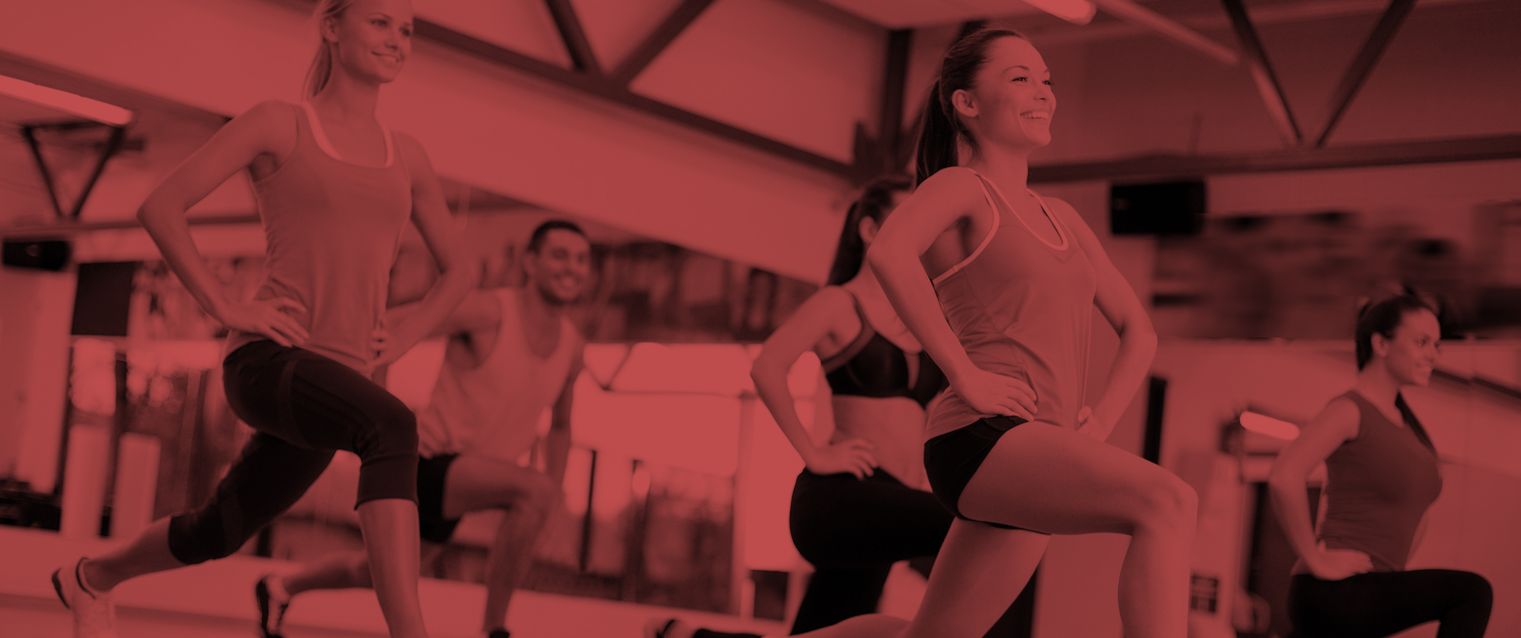
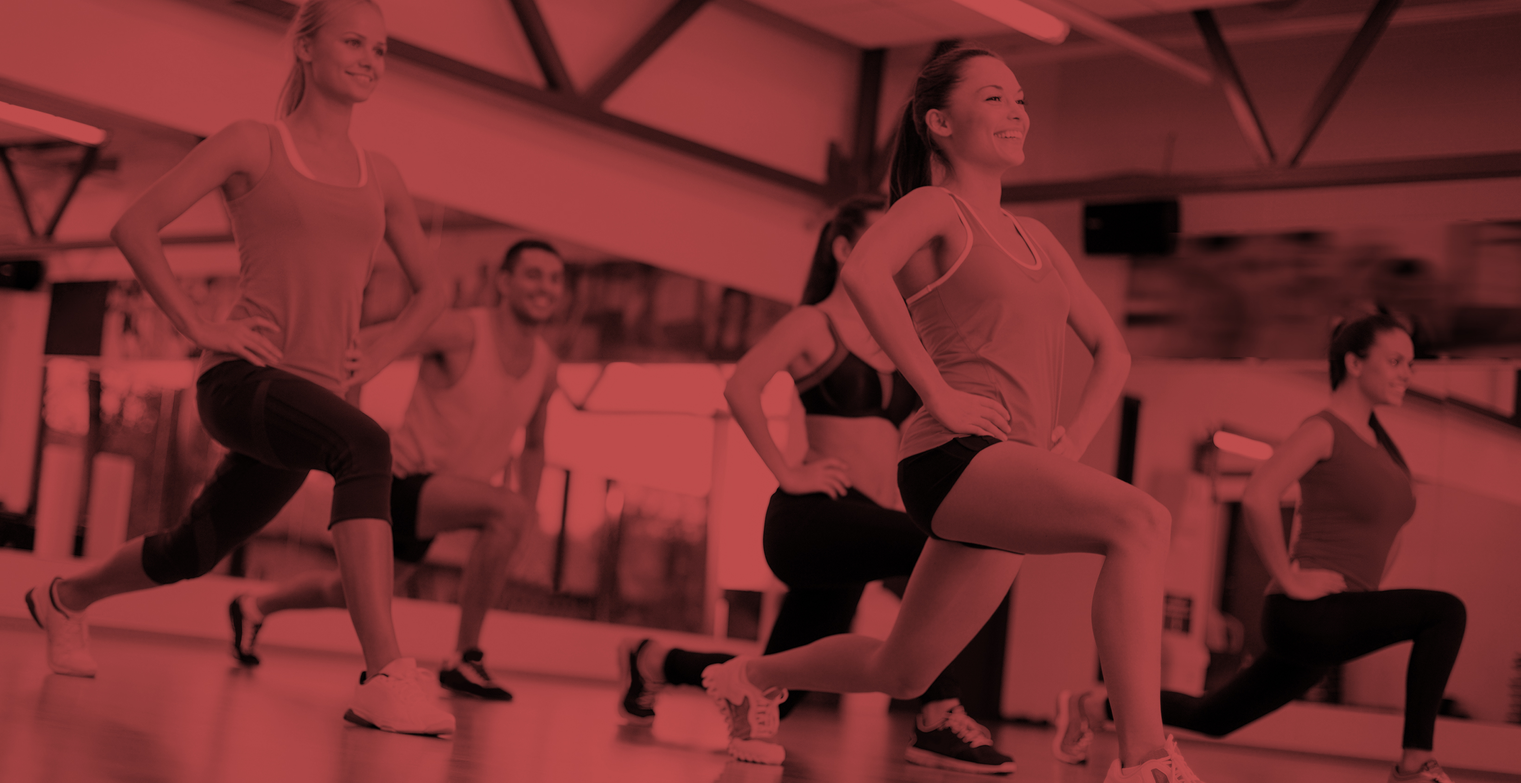
class details

diff --git a/public/CSS/classdetails.css b/public/CSS/classdetails.css
@@ -1,3 +1,10 @@
+
+.main-img {
+    width: 100%;
+    height: auto;
+    object-fit: cover; 
+}
+
 .class-name-box {
     background: rgba(255, 255, 255, 0.5); 
     color: #000000; 
@@ -28,6 +35,7 @@
     padding: 20px;
     width: 300px;
     box-shadow: 0 0 10px rgba(0, 0, 0, 0.1);
+    /* transform: translateY(-500px); */
 }
 
 .class-image img {
